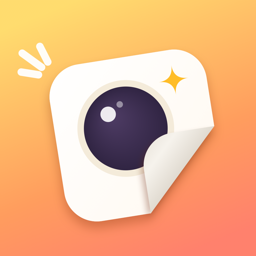
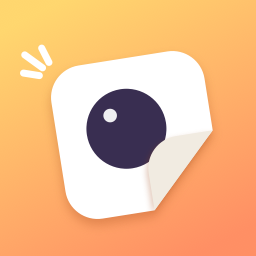
design(아이콘): 그림을 덜어 낸다 — 스티커 · 렌즈 · 벗겨진 모서리 · 움직임 선만
- 구도(기울어진 흰 스티커, 왼쪽 위 움직임 선)는 그대로, 반짝이 · 렌즈 테 · 그라데이션을 뺀다
- 라이트 · 다크 · 틴트, 메시지 확장 12개 크기, 소개 페이지 아이콘을 같은 그림으로
- tools/MakeAppIcon.swift 한 번으로 전부 다시 그린다 (메시지 확장은 크기마다 직접 그려 4:3 도 찌그러지지 않는다)

diff --git a/tools/MakeAppIcon.swift b/tools/MakeAppIcon.swift
@@ -1,15 +1,17 @@
 // MakeAppIcon.swift
-// 펀칭 앱 아이콘 (1024×1024) — "꾹 눌러 뜯은, 움직이는 스티커".
+// 펀칭 앱 아이콘 — "꾹 눌러 뜯은, 움직이는 스티커".
 //
-//   따뜻한 노랑→주황 바탕(이전 아이콘의 색을 잇는다) 위에, 갓 뜯어 모서리가
-//   벗겨지는 흰 스티커 한 장. 스티커 가운데엔 펀칭기의 둥근 창(렌즈)이 뚫려
-//   있고, 왼쪽 위 짧은 선 셋이 움직임을 말한다.
+//   따뜻한 노랑→코랄 바탕 위에, 갓 뜯어 모서리가 벗겨지는 흰 스티커 한 장.
+//   스티커 가운데엔 펀칭기의 둥근 창(렌즈)이 있고, 왼쪽 위 짧은 선 셋이 움직임을 말한다.
+//   그림은 이 다섯 가지뿐이다: 바탕 · 스티커 · 렌즈 · 벗겨진 모서리 · 움직임 선.
+//   (반짝이 · 렌즈 테 · 종이 그라데이션은 2026-11 에 덜어 냈다)
 //
-//   라이트 · 다크 · 틴트 세 장을 같은 그림에서 색만 바꿔 그린다 (아이콘의 원본은 이 파일 하나).
-//   다크는 어두운 바탕에 주황 스티커, 틴트는 검은 바탕에 회색 — 색은 시스템이 입힌다.
+//   아이콘의 원본은 이 파일 하나다. 한 번 돌리면 아래를 모두 다시 그린다.
+//     · 앱 아이콘 라이트 · 다크 · 틴트   StampCamera/Assets.xcassets/AppIcon.appiconset/
+//     · 메시지 확장 아이콘 12개 크기     sticker/Assets.xcassets/iMessage App Icon.stickersiconset/
+//     · 소개 페이지 아이콘               docs/icon.png
 //
-// Run:  swift tools/MakeAppIcon.swift [출력 폴더]
-// 기본 출력: StampCamera/Assets.xcassets/AppIcon.appiconset/AppIcon-{1024,dark,tinted}.png
+// Run (레포 최상단에서):  swift tools/MakeAppIcon.swift
 
 import CoreGraphics
 import ImageIO
@@ -22,152 +24,119 @@ func rgb(_ hex: UInt32, _ a: CGFloat = 1) -> CGColor {
 }
 func rad(_ d: CGFloat) -> CGFloat { d * .pi / 180 }
 
-/// 한 장의 색. 모양은 셋이 똑같다.
+/// 한 장의 색. 모양은 모두 같다.
 struct Look {
-    var file: String
     var background: [UInt32]
+    var sticker: UInt32
+    var lens: UInt32
+    var glint: UInt32
+    var flap: UInt32
     var marks: UInt32
     var shadow: UInt32
-    var face: [UInt32]
-    var rim: UInt32
-    var lens: [UInt32]
-    var glint: UInt32
-    var spark: UInt32
-    var back: [UInt32]
-}
-let looks = [
-    Look(file: "AppIcon-1024.png", background: [0xFFD65C, 0xFF8A4C, 0xFF6A5A], marks: 0xFFFFFF, shadow: 0x7A2A10,
-         face: [0xFFFFFF, 0xFFF7EC], rim: 0xF1E6D2, lens: [0x3D2C52, 0x241A33], glint: 0xFFFFFF,
-         spark: 0xFFB020, back: [0xD9D2C6, 0xF4F0E8, 0xE3DDD2]),
-    Look(file: "AppIcon-dark.png", background: [0x2B2B30, 0x1A1A1D, 0x0E0E10], marks: 0xFFAD66, shadow: 0x000000,
-         face: [0xFFB06A, 0xFFA65C], rim: 0xF5A25C, lens: [0x4A2F1C, 0x2C1E14], glint: 0xFFB878,
-         spark: 0xC98A52, back: [0xD98A52, 0xFFB272, 0xE89B60]),
-    Look(file: "AppIcon-tinted.png", background: [0x000000, 0x000000, 0x000000], marks: 0xD6D6D6, shadow: 0x000000,
-         face: [0xDCDCDC, 0xD0D0D0], rim: 0xC4C4C4, lens: [0x767676, 0x5C5C5C], glint: 0xEDEDED,
-         spark: 0xA8A8A8, back: [0xA6A6A6, 0xE4E4E4, 0xBABABA]),
-]
 
-let S: CGFloat = 1024
+    static let light = Look(background: [0xFFCF5C, 0xFF7A52], sticker: 0xFFFFFF, lens: 0x2B2140,
+                            glint: 0xFFFFFF, flap: 0xEDE6DA, marks: 0xFFFFFF, shadow: 0x8A3210)
+    /// 다크: 어두운 바탕에 주황 스티커
+    static let dark = Look(background: [0x2B2B30, 0x0E0E10], sticker: 0xFFAD66, lens: 0x2E1F14,
+                           glint: 0xFFD2A8, flap: 0xE08F52, marks: 0xFFAD66, shadow: 0x000000)
+    /// 틴트: 검은 바탕에 회색 — 색은 시스템이 입힌다
+    static let tinted = Look(background: [0x000000, 0x000000], sticker: 0xDCDCDC, lens: 0x5A5A5A,
+                             glint: 0xF2F2F2, flap: 0xA8A8A8, marks: 0xDCDCDC, shadow: 0x000000)
+}
+
 let space = CGColorSpaceCreateDeviceRGB()
 
-func render(_ look: Look) -> CGImage {
-let ctx = CGContext(data: nil, width: Int(S), height: Int(S), bitsPerComponent: 8, bytesPerRow: 0,
-                    space: space, bitmapInfo: CGImageAlphaInfo.noneSkipLast.rawValue)!
-// top-left origin, y down
-ctx.translateBy(x: 0, y: S)
-ctx.scaleBy(x: 1, y: -1)
-
-// MARK: background — warm sunrise gradient
-let bg = CGGradient(colorsSpace: space, colors: look.background.map { rgb($0) } as CFArray,
-                    locations: [0, 0.62, 1])!
-ctx.drawLinearGradient(bg, start: CGPoint(x: S * 0.3, y: 0), end: CGPoint(x: S * 0.7, y: S),
-                       options: [.drawsBeforeStartLocation, .drawsAfterEndLocation])
-
-// MARK: the sticker (local coords: centre origin, rotated)
-let half: CGFloat = 318          // half side
-let corner: CGFloat = 132        // rounded-square radius
-let fold: CGFloat = 330          // peel line: x + y = fold (bottom-right corner lifts)
-let body = CGPath(roundedRect: CGRect(x: -half, y: -half, width: half * 2, height: half * 2),
-                  cornerWidth: corner, cornerHeight: corner, transform: nil)
-/// Half-plane x + y <= c (keep = true) or > c, as a big polygon.
+/// x + y <= c 인 반평면(keep) 또는 그 반대쪽.
 func halfPlane(_ c: CGFloat, keep: Bool) -> CGPath {
     let p = CGMutablePath(), B: CGFloat = 4000
-    if keep {
-        p.addLines(between: [CGPoint(x: -B, y: c + B), CGPoint(x: c + B, y: -B), CGPoint(x: -B, y: -B)])
-    } else {
-        p.addLines(between: [CGPoint(x: -B, y: c + B), CGPoint(x: c + B, y: -B), CGPoint(x: B, y: B)])
-    }
+    p.addLines(between: [CGPoint(x: -B, y: c + B), CGPoint(x: c + B, y: -B),
+                         keep ? CGPoint(x: -B, y: -B) : CGPoint(x: B, y: B)])
     p.closeSubpath()
     return p
 }
 
-let stuck = body.intersection(halfPlane(fold, keep: true))           // still on the page
-let lifted = body.intersection(halfPlane(fold, keep: false))         // the corner coming off
-let flap = lifted.copy(using: [CGAffineTransform(a: 0, b: -1, c: -1, d: 0, tx: fold, ty: fold)])!
+/// 그림은 1024 칸 기준으로 그리고, 캔버스의 짧은 변에 맞춰 줄여 가운데에 놓는다.
+/// (메시지 확장 아이콘은 4:3 이라 바탕만 옆으로 더 넓어진다)
+func render(_ look: Look, width: Int, height: Int) -> CGImage {
+    let W = CGFloat(width), H = CGFloat(height)
+    let ctx = CGContext(data: nil, width: width, height: height, bitsPerComponent: 8, bytesPerRow: 0,
+                        space: space, bitmapInfo: CGImageAlphaInfo.noneSkipLast.rawValue)!
+    ctx.translateBy(x: 0, y: H); ctx.scaleBy(x: 1, y: -1)        // 왼쪽 위가 원점
 
-ctx.saveGState()
-ctx.translateBy(x: S / 2 + 30, y: S / 2 + 30)
-ctx.rotate(by: rad(-9))
+    let bg = CGGradient(colorsSpace: space, colors: look.background.map { rgb($0) } as CFArray, locations: [0, 1])!
+    ctx.drawLinearGradient(bg, start: CGPoint(x: W * 0.25, y: 0), end: CGPoint(x: W * 0.75, y: H),
+                           options: [.drawsBeforeStartLocation, .drawsAfterEndLocation])
 
-// pop marks — three short strokes bursting from the top-left corner: it just
-// came off, and it moves
-ctx.saveGState()
-ctx.setLineCap(.round)
-ctx.setStrokeColor(rgb(look.marks, 0.95))
-ctx.setLineWidth(30)
-let cornerPt = CGPoint(x: -half + corner * 0.29, y: -half + corner * 0.29)
-for (deg, len) in [(CGFloat(198), CGFloat(70)), (225, 96), (252, 70)] {
-    let a = rad(deg), r0: CGFloat = 70
-    ctx.move(to: CGPoint(x: cornerPt.x + cos(a) * r0, y: cornerPt.y + sin(a) * r0))
-    ctx.addLine(to: CGPoint(x: cornerPt.x + cos(a) * (r0 + len), y: cornerPt.y + sin(a) * (r0 + len)))
+    let unit = min(W, H) / 1024
+    ctx.translateBy(x: W / 2, y: H / 2)
+    ctx.scaleBy(x: unit, y: unit)
+
+    // 스티커 (가운데가 원점, 살짝 기울인다)
+    let half: CGFloat = 310, corner: CGFloat = 130
+    let fold: CGFloat = 340          // 벗겨지는 선: x + y = fold (오른쪽 아래 모서리가 들린다)
+    let body = CGPath(roundedRect: CGRect(x: -half, y: -half, width: half * 2, height: half * 2),
+                      cornerWidth: corner, cornerHeight: corner, transform: nil)
+    let stuck = body.intersection(halfPlane(fold, keep: true))          // 아직 붙어 있는 쪽
+    let lifted = body.intersection(halfPlane(fold, keep: false))        // 들린 모서리
+    let flap = lifted.copy(using: [CGAffineTransform(a: 0, b: -1, c: -1, d: 0, tx: fold, ty: fold)])!
+
+    ctx.translateBy(x: 28, y: 28)
+    ctx.rotate(by: rad(-9))
+
+    // 움직임 선 셋 — 방금 뜯겼고, 움직인다
+    ctx.setLineCap(.round); ctx.setStrokeColor(rgb(look.marks)); ctx.setLineWidth(28)
+    let from = CGPoint(x: -half + corner * 0.29, y: -half + corner * 0.29)
+    for (deg, len) in [(CGFloat(198), CGFloat(64)), (225, 88), (252, 64)] {
+        let a = rad(deg), r0: CGFloat = 72
+        ctx.move(to: CGPoint(x: from.x + cos(a) * r0, y: from.y + sin(a) * r0))
+        ctx.addLine(to: CGPoint(x: from.x + cos(a) * (r0 + len), y: from.y + sin(a) * (r0 + len)))
+    }
+    ctx.strokePath()
+
+    // 스티커 종이 한 장과 그림자 하나
+    ctx.saveGState()
+    ctx.setShadow(offset: CGSize(width: 0, height: -22 * unit), blur: 44 * unit, color: rgb(look.shadow, 0.30))
+    ctx.addPath(stuck); ctx.setFillColor(rgb(look.sticker)); ctx.fillPath()
+    ctx.restoreGState()
+
+    // 렌즈: 한 색 원과 반짝임 하나
+    ctx.saveGState()
+    ctx.addPath(stuck); ctx.clip()
+    let c = CGPoint(x: -30, y: -30), r: CGFloat = 160
+    ctx.setFillColor(rgb(look.lens))
+    ctx.fillEllipse(in: CGRect(x: c.x - r, y: c.y - r, width: r * 2, height: r * 2))
+    ctx.setFillColor(rgb(look.glint, 0.92))
+    ctx.fillEllipse(in: CGRect(x: c.x - r * 0.52, y: c.y - r * 0.56, width: r * 0.34, height: r * 0.34))
+    ctx.restoreGState()
+
+    // 벗겨진 모서리: 접는 선에 비춰 뒤집은 종이 뒷면
+    ctx.saveGState()
+    ctx.setShadow(offset: CGSize(width: -8 * unit, height: -14 * unit), blur: 22 * unit, color: rgb(look.shadow, 0.28))
+    ctx.addPath(flap); ctx.setFillColor(rgb(look.flap)); ctx.fillPath()
+    ctx.restoreGState()
+
+    return ctx.makeImage()!
 }
-ctx.strokePath()
-ctx.restoreGState()
 
-// drop shadow of the stuck-down part
-ctx.saveGState()
-ctx.setShadow(offset: CGSize(width: 0, height: -26), blur: 46, color: rgb(look.shadow, 0.38))
-ctx.addPath(stuck); ctx.setFillColor(rgb(look.face[0])); ctx.fillPath()
-ctx.restoreGState()
-
-// face: white sticker paper, the punched window, a spark
-ctx.saveGState()
-ctx.addPath(stuck); ctx.clip()
-let face = CGGradient(colorsSpace: space, colors: look.face.map { rgb($0) } as CFArray, locations: [0, 1])!
-ctx.drawLinearGradient(face, start: CGPoint(x: -half, y: -half), end: CGPoint(x: half, y: half), options: [])
-// the punched window: a deep navy lens with a cream rim
-let lensC = CGPoint(x: -34, y: -34), lensR: CGFloat = 168
-ctx.setFillColor(rgb(look.rim))
-ctx.fillEllipse(in: CGRect(x: lensC.x - lensR - 26, y: lensC.y - lensR - 26, width: (lensR + 26) * 2, height: (lensR + 26) * 2))
-let lens = CGGradient(colorsSpace: space, colors: look.lens.map { rgb($0) } as CFArray, locations: [0, 1])!
-ctx.saveGState()
-ctx.addEllipse(in: CGRect(x: lensC.x - lensR, y: lensC.y - lensR, width: lensR * 2, height: lensR * 2)); ctx.clip()
-ctx.drawRadialGradient(lens, startCenter: CGPoint(x: lensC.x - 50, y: lensC.y - 60), startRadius: 0,
-                       endCenter: lensC, endRadius: lensR, options: [.drawsAfterEndLocation])
-ctx.restoreGState()
-// lens glints
-ctx.setFillColor(rgb(look.glint, 0.9))
-ctx.fillEllipse(in: CGRect(x: lensC.x - 92, y: lensC.y - 98, width: 62, height: 62))
-ctx.setFillColor(rgb(look.glint, 0.45))
-ctx.fillEllipse(in: CGRect(x: lensC.x - 22, y: lensC.y - 112, width: 26, height: 26))
-// a little four-point spark, top-right of the face
-func spark(_ c: CGPoint, _ r: CGFloat) {
-    let p = CGMutablePath()
-    p.move(to: CGPoint(x: c.x, y: c.y - r))
-    p.addQuadCurve(to: CGPoint(x: c.x + r, y: c.y), control: c)
-    p.addQuadCurve(to: CGPoint(x: c.x, y: c.y + r), control: c)
-    p.addQuadCurve(to: CGPoint(x: c.x - r, y: c.y), control: c)
-    p.addQuadCurve(to: CGPoint(x: c.x, y: c.y - r), control: c)
-    ctx.addPath(p); ctx.fillPath()
-}
-ctx.setFillColor(rgb(look.spark))
-spark(CGPoint(x: 186, y: -196), 62)
-ctx.restoreGState()
-
-// the peeled flap: the cut-off corner reflected across the fold line,
-// showing the sticker's paper back
-ctx.saveGState()
-ctx.setShadow(offset: CGSize(width: -10, height: -18), blur: 26, color: rgb(look.shadow == 0 ? 0x000000 : 0x5A2010, 0.35))
-ctx.beginTransparencyLayer(auxiliaryInfo: nil)
-ctx.addPath(flap); ctx.clip()
-let back = CGGradient(colorsSpace: space, colors: look.back.map { rgb($0) } as CFArray,
-                      locations: [0, 0.55, 1])!
-ctx.drawLinearGradient(back, start: CGPoint(x: fold / 2, y: fold / 2), end: CGPoint(x: fold / 2 - 140, y: fold / 2 - 140),
-                       options: [.drawsBeforeStartLocation, .drawsAfterEndLocation])
-ctx.endTransparencyLayer()
-ctx.restoreGState()
-
-ctx.restoreGState()
-
-return ctx.makeImage()!
+func write(_ look: Look, _ width: Int, _ height: Int, to path: String) {
+    let dest = CGImageDestinationCreateWithURL(URL(fileURLWithPath: path) as CFURL,
+                                               UTType.png.identifier as CFString, 1, nil)!
+    CGImageDestinationAddImage(dest, render(look, width: width, height: height), nil)
+    guard CGImageDestinationFinalize(dest) else { fatalError("쓰지 못했다: \(path)") }
+    print("wrote \(path)")
 }
 
 // MARK: write
-let outDir = CommandLine.arguments.dropFirst().first ?? "StampCamera/Assets.xcassets/AppIcon.appiconset"
-for look in looks {
-    let url = URL(fileURLWithPath: outDir).appendingPathComponent(look.file)
-    let dest = CGImageDestinationCreateWithURL(url as CFURL, UTType.png.identifier as CFString, 1, nil)!
-    CGImageDestinationAddImage(dest, render(look), nil)
-    CGImageDestinationFinalize(dest)
-    print("wrote \(url.path)")
+
+let appIcon = "StampCamera/Assets.xcassets/AppIcon.appiconset"
+write(.light, 1024, 1024, to: "\(appIcon)/AppIcon-1024.png")
+write(.dark, 1024, 1024, to: "\(appIcon)/AppIcon-dark.png")
+write(.tinted, 1024, 1024, to: "\(appIcon)/AppIcon-tinted.png")
+
+let messages = "sticker/Assets.xcassets/iMessage App Icon.stickersiconset"
+for (w, h) in [(58, 58), (87, 87), (54, 40), (81, 60), (64, 48), (96, 72), (120, 90), (180, 135),
+               (134, 100), (148, 110), (1024, 768), (1024, 1024)] {
+    write(.light, w, h, to: "\(messages)/imsg-\(w)x\(h).png")
 }
+
+write(.light, 256, 256, to: "docs/icon.png")
